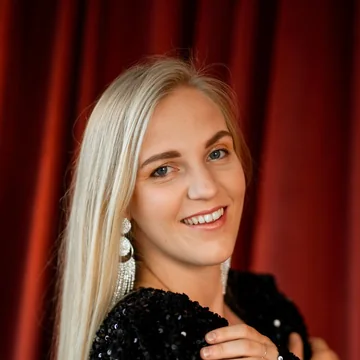
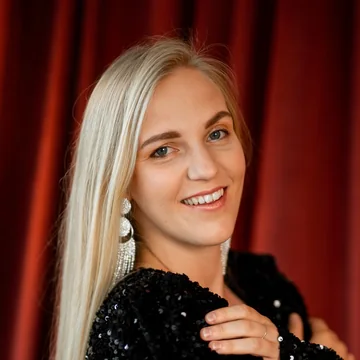
Swap A1/A2 images, add third stat to About, raise Daria's photo
Claude-Session: https://claude.ai/code/session_01Gw7vHuWDiBF9GfiDrPFvNY

diff --git a/index.html b/index.html
@@ -31,7 +31,7 @@
   <link rel="preconnect" href="https://fonts.googleapis.com">
   <link rel="preconnect" href="https://fonts.gstatic.com" crossorigin>
   <link href="https://fonts.googleapis.com/css2?family=Irish+Grover&family=Inter:wght@400;500;600;700&display=swap" rel="stylesheet">
-  <link rel="stylesheet" href="css/style.css?v=202610281021">
+  <link rel="stylesheet" href="css/style.css?v=202610281027">
 
   <script type="application/ld+json">
   {
@@ -181,7 +181,7 @@
       <div class="container courses__grid">
 
         <article class="card reveal">
-          <img class="card__img" src="assets/img/a1.webp" alt="" loading="lazy" width="643" height="370">
+          <img class="card__img card__img--contain" src="assets/img/a2.webp" alt="" loading="lazy" width="527" height="532">
           <div class="card__body">
             <span class="card__badge">A1</span>
             <h3 class="card__title" data-i18n="courses.a1.title">Разговорный курс A1 онлайн для начинающих</h3>
@@ -199,7 +199,7 @@
         </article>
 
         <article class="card reveal">
-          <img class="card__img card__img--contain" src="assets/img/a2.webp" alt="" loading="lazy" width="527" height="532">
+          <img class="card__img" src="assets/img/a1.webp" alt="" loading="lazy" width="643" height="370">
           <div class="card__body">
             <span class="card__badge">A2</span>
             <h3 class="card__title" data-i18n="courses.a2.title">Разговорный курс A2 онлайн для продолжающих</h3>
@@ -288,6 +288,7 @@
         <div class="about__numbers">
           <div><strong>50+</strong><span data-i18n="about.n1">студентов уже заговорили</span></div>
           <div><strong>2–5</strong><span data-i18n="about.n2">человек в группе</span></div>
+          <div><strong>3</strong><span data-i18n="about.n3">страны, откуда наши студенты</span></div>
         </div>
         <a href="#courses" class="btn btn--primary" data-i18n="cta.findCourse">Найти свой курс</a>
       </div>
@@ -531,7 +532,7 @@
   <symbol id="i-book" viewBox="0 0 24 24" fill="none" stroke="currentColor" stroke-width="1.6" stroke-linecap="round" stroke-linejoin="round"><path d="M12 6.5C10 5 7 4.5 3.5 5v13.5c3.5-.5 6.5 0 8.5 1.5 2-1.5 5-2 8.5-1.5V5C17 4.5 14 5 12 6.5Z"/><path d="M12 6.5V20"/></symbol>
 </svg>
 
-<script src="js/i18n.js?v=202610281021" defer></script>
-<script src="js/main.js?v=202610281021" defer></script>
+<script src="js/i18n.js?v=202610281027" defer></script>
+<script src="js/main.js?v=202610281027" defer></script>
 </body>
 </html>

diff --git a/css/style.css b/css/style.css
@@ -234,9 +234,9 @@ button { font: inherit; cursor: pointer; }
 .about__inner { display: grid; grid-template-columns: 1fr 1.35fr; gap: 56px; align-items: center; }
 .about__title { font-size: clamp(28px, 3.2vw, 38px); }
 .about__lead { margin-top: 18px; font-size: 17px; line-height: 1.6; color: var(--ink-soft); }
-.about__numbers { display: flex; gap: 36px; margin: 28px 0 32px; }
+.about__numbers { display: grid; grid-template-columns: repeat(3, auto); justify-content: start; gap: 32px; margin: 28px 0 32px; }
 .about__numbers strong { display: block; font-size: 42px; font-weight: 700; line-height: 1; color: var(--primary); }
-.about__numbers span { font-size: 14px; color: var(--ink-soft); }
+.about__numbers span { display: block; margin-top: 6px; font-size: 14px; line-height: 1.35; color: var(--ink-soft); max-width: 150px; }
 .about__features { display: grid; grid-template-columns: repeat(2, 1fr); gap: 16px; }
 .tile {
   padding: 22px; border-radius: var(--radius-sm);
@@ -464,6 +464,9 @@ button { font: inherit; cursor: pointer; }
 }
 
 @media (max-width: 560px) {
+  .about__numbers { gap: 18px; }
+  .about__numbers strong { font-size: 34px; }
+  .about__numbers span { font-size: 13px; }
   .panel { padding: 36px 20px; border-radius: 24px; }
   .container { padding: 0 16px; }
   .hero__subtitle br, .section__lead br { display: none; }

diff --git a/js/i18n.js b/js/i18n.js
@@ -75,6 +75,7 @@ window.I18N = {
     'about.lead': 'We don’t teach “textbook Portuguese” — we teach the living language people speak on the street, in cafés and at the office. From the very first lesson: live practice with native speakers — fully in Portuguese or with explanations in English, whichever suits you.',
     'about.n1': 'students already speaking',
     'about.n2': 'people per group',
+    'about.n3': 'countries our students come from',
     'about.f1': 'Native-speaker teachers',
     'about.f1s': 'Real pronunciation and real everyday phrases',
     'about.f2': 'Your choice of format',
